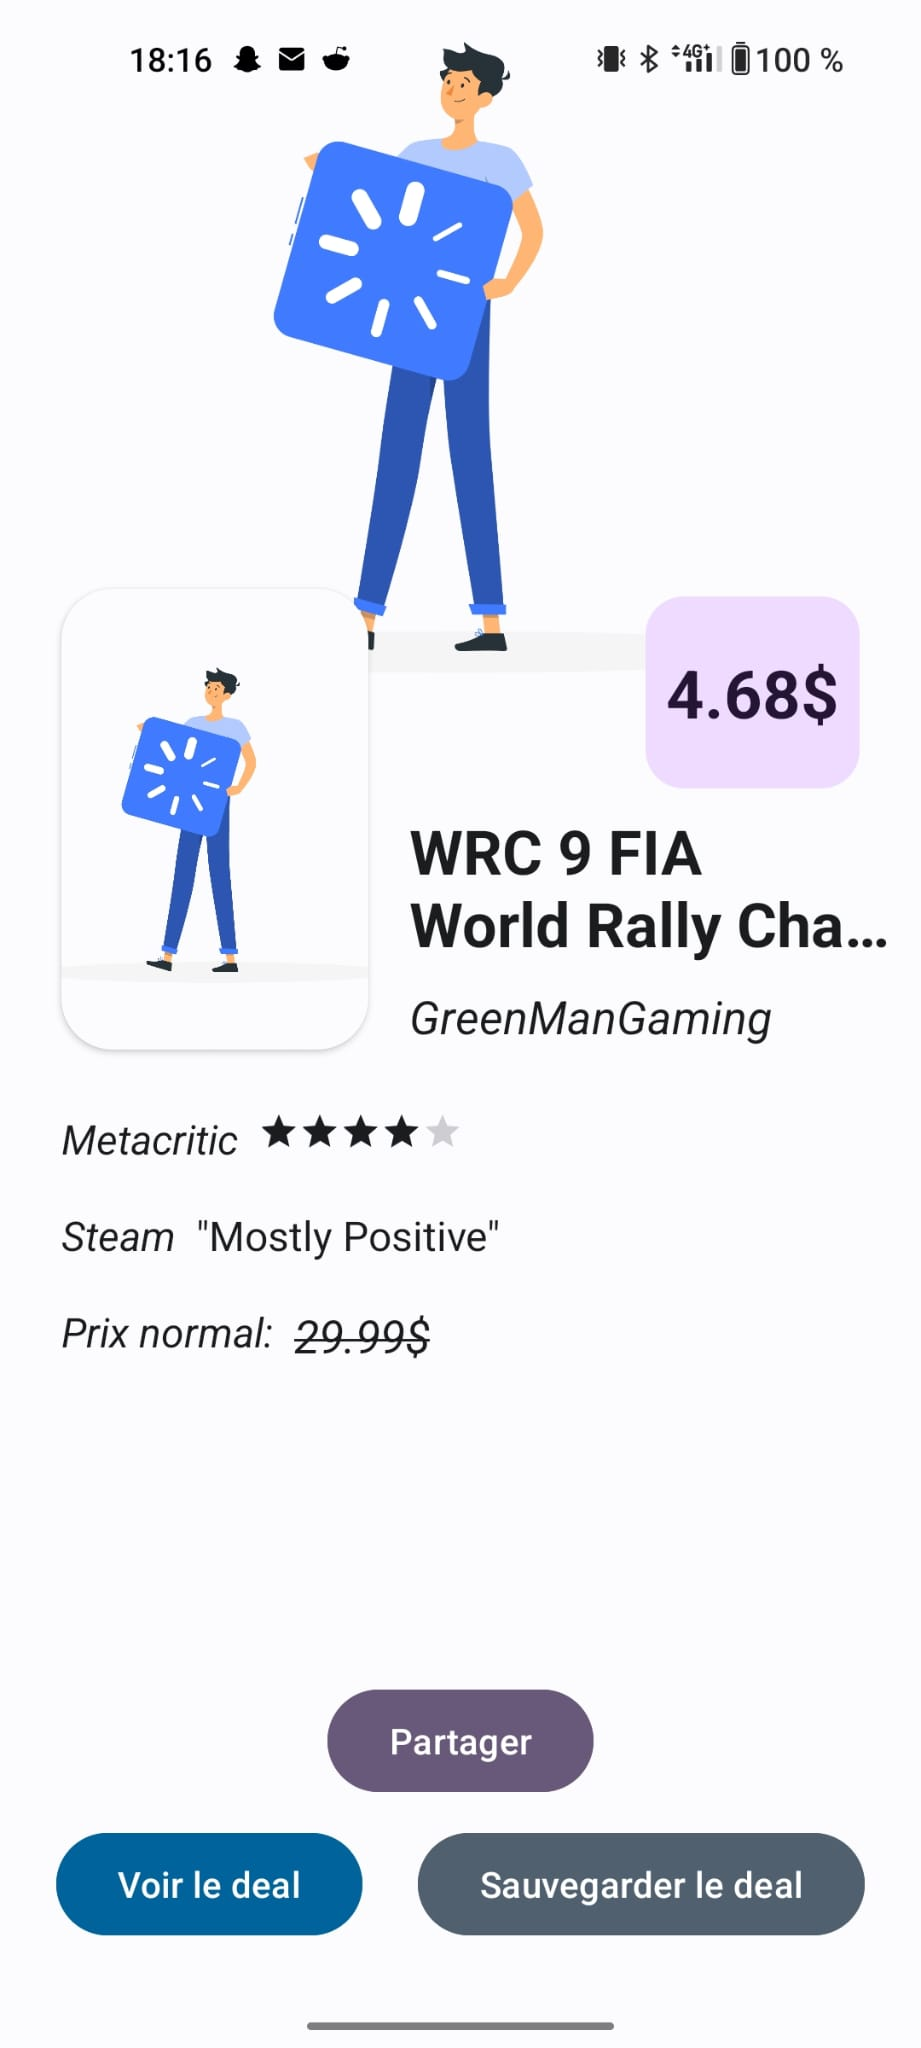
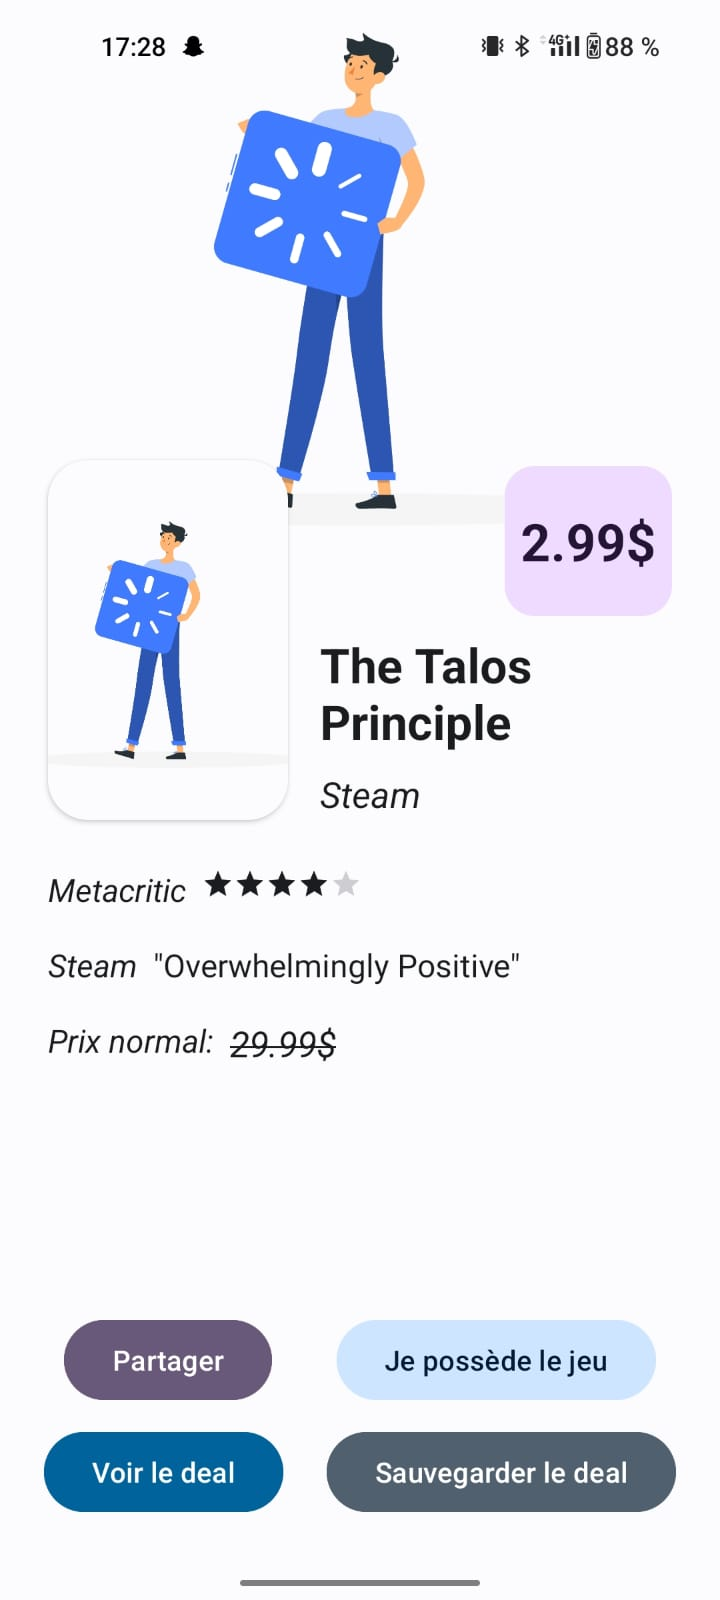
updated report

diff --git a/rapport/IHM - Projet Android.md b/rapport/IHM - Projet Android.md
@@ -13,17 +13,23 @@
 - [[#Application en cours d'exécution|Application en cours d'exécution]]
 	- [[#Page d’accueil|Page d’accueil]]
 	- [[#Personnaliser la recherche|Personnaliser la recherche]]
-		- [[#Personnaliser la recherche#Sélection des magasins|Sélection des magasins]]
-		- [[#Personnaliser la recherche#Paramètres des deals|Paramètres des deals]]
-		- [[#Personnaliser la recherche#Paramètres des prix des deals|Paramètres des prix des deals]]
-		- [[#Personnaliser la recherche#Résultats de la recherche|Résultats de la recherche]]
+	- [[#Personnaliser la recherche#Sélection des magasins|Sélection des magasins]]
+	- [[#Personnaliser la recherche#Paramètres des deals|Paramètres des deals]]
+	- [[#Personnaliser la recherche#Paramètres des prix des deals|Paramètres des prix des deals]]
+	- [[#Personnaliser la recherche#Résultats de la recherche|Résultats de la recherche]]
 	- [[#Détail d'un deal|Détail d'un deal]]
 	- [[#Deals enregistré|Deals enregistré]]
+	- [[#Jeux possédés|Jeux possédés]]
 	- [[#Tout les deals|Tout les deals]]
 	- [[#Recherche|Recherche]]
 	- [[#Paramètres|Paramètres]]
-- [[#Difficultés rencontrées|Difficultés rencontrées]]
 - [[#Arborescence|Arborescence]]
+	- [[#API|API]]
+	- [[#Database|Database]]
+	- [[#Results|Results]]
+	- [[#Utils|Utils]]
+	- [[#Le reste|Le reste]]
+
 
 ## Objectif de l'application
 
@@ -34,6 +40,12 @@ Les fonctionnalités clés de l'application incluent la possibilité de recherch
 Promohub vise à simplifier le processus de recherche de bonnes affaires pour les jeux vidéo en centralisant les informations pertinentes et en offrant des options de filtrage avancées. En permettant aux utilisateurs de trouver rapidement et facilement les meilleures offres disponibles, l'application vise à améliorer l'expérience d'achat de jeux vidéo et à aider les joueurs à réaliser des économies significatives.  
 
 ## Conception
+Pendant l'étape de conception du projet nous avons considérés plusieurs APIs:  
+- [CheapShark](https://apidocs.cheapshark.com/)
+- [IsThereAnyDeal](https://docs.isthereanydeal.com/)
+- [Games-Deals-API](https://github.com/MohamedAmgd/Game-Deals-API)  
+
+Nous avons décidés d'utiliser celle de CheapShark car c'est celle qui correspondait le mieux à nos besoins tout en étant la plus simple d'utilisation (pas besoin de clé, ni de compte).
 
 ## Application en cours d'exécution
 #### Page d’accueil
@@ -110,9 +122,15 @@ Depuis la page d'accueil nous pouvons accéder aux deals enregistrés.
 ```
 Nous voyons sur l'image de gauche que si nous n'avons pas de deal sauvegardé, le titre nous l'affiche. Sinon la liste des deals sauvegarder est affichée et nous pouvons y accéder de la même manière que les deals de la recherche.
 
+#### Jeux possédés
+![[owned_games.jpeg|350]]  
+Depuis la page d'accueil nous pouvons aussi accéder aux jeux possédés. L'utilisateur peut enregistrer des jeux en tant que jeux possédés pour ne pas les voir dans les résultats des deals. Il peut modifier ce comportement dans la page des paramètres
+
 #### Tout les deals
 Depuis la page d'accueil lorsque l'on appuie sur le bouton "voir tout les deals", nous voyons les 60 deals les plus récent renvoyés par l'API, indépendamment de tous paramètres.
->[!info] La taille maximale d'une page de deal fournie par l'API de CheapShark est de 60 deals
+>[!info] La taille maximale d'une page de deal fournie par l'API de CheapShark est de 60 deals  
+
+
 ```image-layout-a
 ![[all_deals.jpeg]]
 ![[all_deals_doublons.jpeg]]
@@ -131,9 +149,8 @@ Nous pouvons aussi rechercher des deals sur des jeux. On peut rentrer le nom du 
 ![[settings.jpeg]]
 ![[settings_suite.jpeg]]
 ```
-Enfin nous avons une page de paramètres dans laquelle l'utilisateur peut sélectionner si il veut enregistrer ses paramètres de recherche à chaque fois qu'il les changes. Nous affichons aussi un avis aux utilisateurs expliquant comment sont récupérés les deals et créditons les auteurs des assets que nous utilisons.
+Enfin nous avons une page de paramètres dans laquelle l'utilisateur peut sélectionner si il veut enregistrer ses paramètres de recherche à chaque fois qu'il les changes, et si il veut afficher les jeux qu'il possède dans les résultats. Nous affichons aussi un avis aux utilisateurs expliquant comment sont récupérés les deals et créditons les auteurs des assets que nous utilisons.
 
-## Difficultés rencontrées
 ## Arborescence
 La structure globale de l'arborescence du code est la suivante:
 ```
